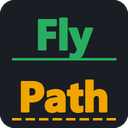
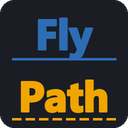
Settle on final map colours: blue polygon, orange flight path
- Survey polygon and drawing rubber band: blue (#2D6DB5)
- Flight path line and mid waypoints: orange (#F0A500)
- Start waypoint: orange, end waypoint: blue
- Icon: Fly in blue, Path in orange (back to original palette)

Changed region(s): [[0.0938, 0.125, 0.9375, 0.5]]

diff --git a/flypath_dialog.py b/flypath_dialog.py
@@ -1108,8 +1108,8 @@ class FlyPathDialog(QWidget):
         layer.dataProvider().addFeatures([feat])
 
         symbol = QgsFillSymbol.createSimple({
-            'color': '240,165,0,50',
-            'outline_color': '#F0A500',
+            'color': '45,109,181,50',
+            'outline_color': '#2D6DB5',
             'outline_width': '0.8',
             'outline_style': 'dash',
         })
@@ -1312,7 +1312,7 @@ class FlyPathDialog(QWidget):
         dp.addFeatures([feat])
 
         line_sym = QgsLineSymbol.createSimple({
-            'color': '#27AE60', 'width': '0.8',
+            'color': '#F0A500', 'width': '0.8',
             'capstyle': 'round', 'joinstyle': 'round',
         })
         line_layer.renderer().setSymbol(line_sym)
@@ -1343,9 +1343,9 @@ class FlyPathDialog(QWidget):
         # Rule-based renderer: start=green, end=amber, mid=white/blue
         root = QgsRuleBasedRenderer.Rule(None)
         for expr, color, border, size, label in [
-            ('"wp_type" = \'start\'', '#27AE60', 'white',   '5.5', 'Start'),
-            ('"wp_type" = \'end\'',   '#F0A500', 'white',   '5.5', 'End'),
-            ('"wp_type" = \'mid\'',   'white',   '#27AE60', '4.0', 'Waypoint'),
+            ('"wp_type" = \'start\'', '#F0A500', 'white',   '5.5', 'Start'),
+            ('"wp_type" = \'end\'',   '#2D6DB5', 'white',   '5.5', 'End'),
+            ('"wp_type" = \'mid\'',   'white',   '#F0A500', '4.0', 'Waypoint'),
         ]:
             sym = QgsMarkerSymbol.createSimple({
                 'name': 'circle', 'color': color,

diff --git a/map_tools.py b/map_tools.py
@@ -34,8 +34,8 @@ class PolygonDrawTool(QgsMapTool):
 
         # Single polygon rubber band — Qt auto-closes it back to the first point
         self._band = QgsRubberBand(canvas, QgsWkbTypes.PolygonGeometry)
-        self._band.setColor(QColor(240, 165, 0, 50))        # orange semi-fill
-        self._band.setStrokeColor(QColor(240, 165, 0, 220))
+        self._band.setColor(QColor(45, 109, 181, 50))       # blue semi-fill
+        self._band.setStrokeColor(QColor(45, 109, 181, 220))
         self._band.setWidth(2)
         self._band.setLineStyle(Qt.DashLine)
 
